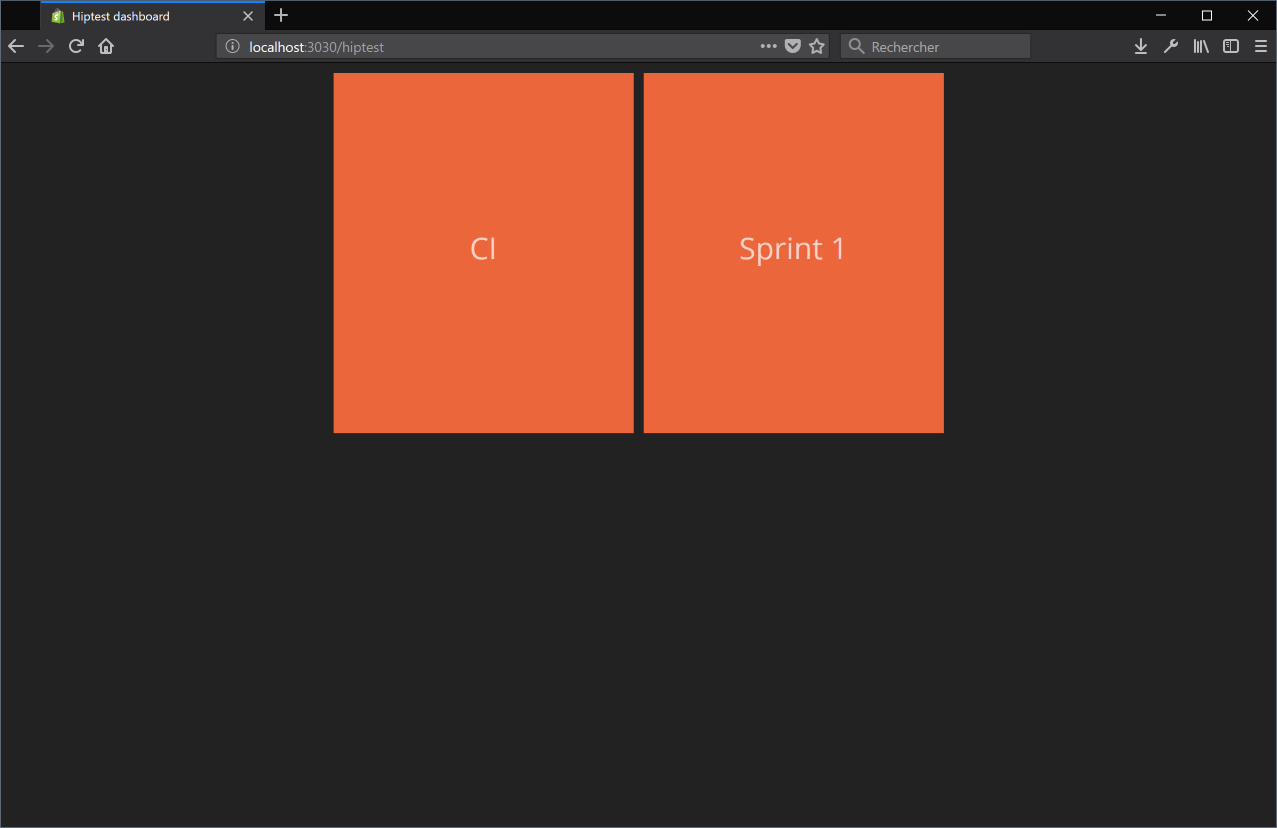
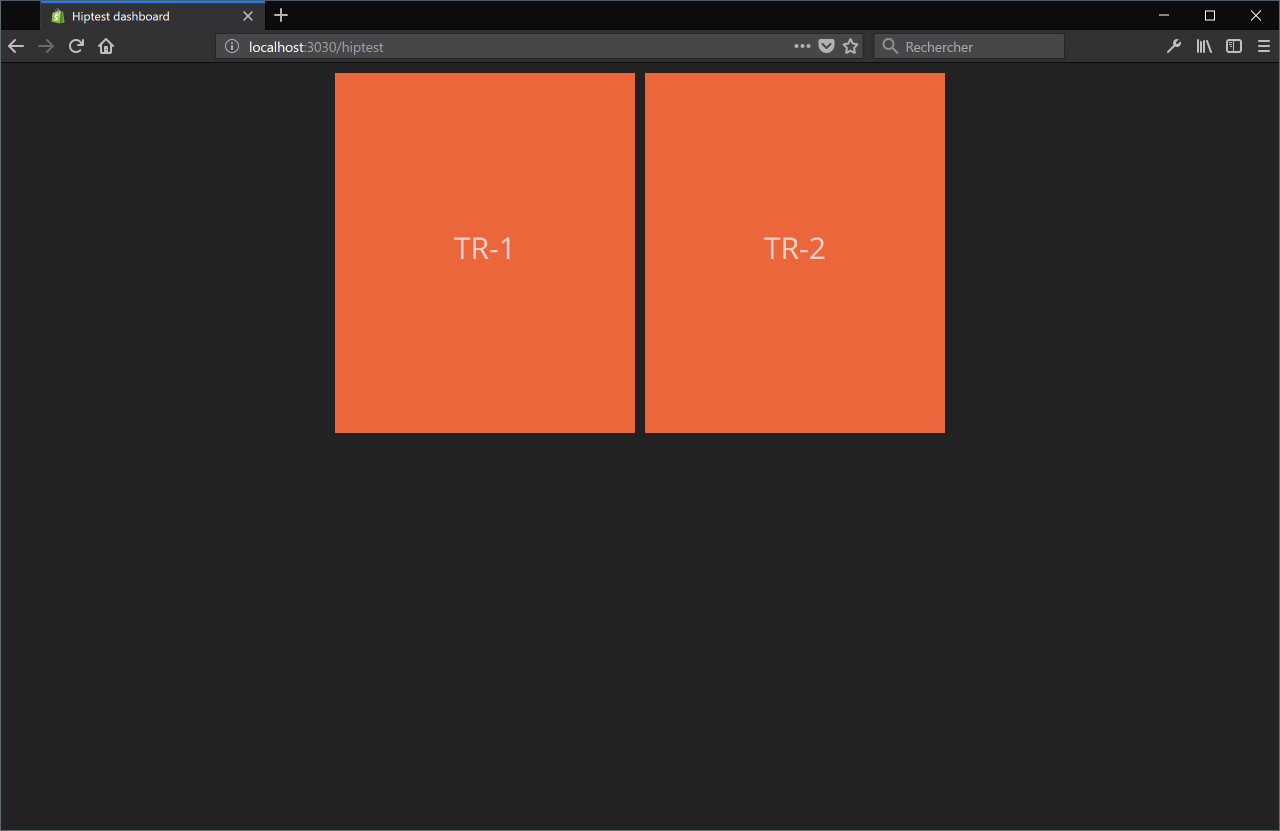
Fetch data from Hiptest then display it

diff --git a/jobs/hiptest.rb b/jobs/hiptest.rb
@@ -1,0 +1,99 @@
+require 'net/http'
+require 'json'
+
+PROJECT_ID = 67155
+ACCESS_TOKEN = 'xcxIyyffZDy-UJkfeXPYgg'
+CLIENT_ID = 'ikxIDJvmOTTPRSMtRV305Q'
+UID = 'areeves@kaonet-fr.net'
+
+PROJECT_URL = "https://hiptest.net/api/projects/#{PROJECT_ID}/test_runs"
+
+# That method will actually fetch the data from Hiptest
+# and return an array of hashes containing test runs names and statuses
+def request_hiptest_status
+
+  uri = URI(PROJECT_URL)
+  result = Net::HTTP.start(uri.host, uri.port, use_ssl: uri.scheme == 'https') do |http|
+    request = Net::HTTP::Get.new uri
+    request['Accept'] = "application/vnd.api+json; version=1"
+    request['access-token'] = ACCESS_TOKEN
+    request['client'] = CLIENT_ID
+    request['uid'] = UID
+    http.request request
+  end
+
+  if result and result.is_a?(Net::HTTPOK)
+    response = JSON.parse(result.body)
+
+    # To return an array containing only names and statusese of test runs
+    return response['data'].collect do |test_run|
+      {
+        'name' => test_run['attributes']['name'], 
+        'statuses' => test_run['attributes']['statuses']
+      }
+    end
+  end
+
+  # If something wrong happened then tiles won't be refreshed.
+  puts 'An error occurs.'
+  puts result
+
+  return nil
+  
+end
+
+# This method is in charge of returning the most
+# valuable status for the given statuses.
+#
+# It's up to you to define here which status you want your
+# dashboard to show depending the statuses of a test run
+def get_status_text(statuses)
+
+  return "Failed" if statuses['failed'] > 0
+  return "Blocked" if statuses['blocked'] > 0
+  return "Skipped" if statuses['skipped'] > 0
+  return "Work in progress" if statuses['wip'] > 0 || statuses['undefined'] > 0
+  return "Retest" if statuses['retest'] > 0
+  return "Passed" if statuses['passed'] > 0
+
+  return "Unknown"
+
+end
+
+# This will simply concatenate the statuses
+# into a single string
+def get_status_details(statuses)
+
+  return statuses.map { |key, value|
+    "#{key}: #{value}" if value > 0
+  }.join(' ')
+
+end
+
+# Every 30 seconds the dashboard will fetch statuses from Hiptest
+# then refresh the tiles accordingly
+SCHEDULER.every '30s' do
+
+  test_runs = request_hiptest_status
+
+  unless test_runs.nil?
+
+    send_event(
+      'tr-1', 
+      { 
+        title: test_runs.first['name'], 
+        text: get_status_text(test_runs.first['statuses']),
+        moreinfo: get_status_details(test_runs.first['statuses'])
+      })
+
+    send_event(
+      'tr-2', 
+      { 
+        title: test_runs.last['name'], 
+        text: get_status_text(test_runs.last['statuses']),
+        moreinfo: get_status_details(test_runs.last['statuses'])
+      })
+
+  end
+
+end

diff --git a/hiptest-api-dashboard-tutorial.md b/hiptest-api-dashboard-tutorial.md
@@ -299,10 +299,10 @@ with the following content:
 <div class="gridster">
   <ul>
     <li data-row="1" data-col="1" data-sizex="1" data-sizey="1">
-      <div data-id="tr-ci" data-view="Text" data-title="CI" data-text=""></div>
+      <div data-id="tr-1" data-view="Text" data-title="TR-1" data-text=""></div>
     </li>
     <li data-row="1" data-col="2" data-sizex="1" data-sizey="1">
-      <div data-id="tr-sprint-1" data-view="Text" data-title="Sprint 1" data-text=""></div>
+      <div data-id="tr-2" data-view="Text" data-title="TR-2" data-text=""></div>
     </li>
   </ul>
 </div>
@@ -315,3 +315,117 @@ sample project.
 If you navigate to http://localhost:3030/hiptest that should look like that:
 
 ![Hiptest blank dashboard](tutorial_files/screenshots/hiptest-blank-dashboard.png)
+
+Now create another file in the `jobs` directory named `hiptest.rb`
+with the following content:
+
+```ruby
+require 'net/http'
+require 'json'
+
+# Set the following constants with your data
+PROJECT_ID = 0
+ACCESS_TOKEN = 'your-access-token'
+CLIENT_ID = 'your-client-id'
+UID = 'your-uid'
+
+PROJECT_URL = "https://hiptest.net/api/projects/#{PROJECT_ID}/test_runs"
+
+# That method will actually fetch the data from Hiptest
+# and return an array of hashes containing test runs names and statuses
+def request_hiptest_status
+
+  uri = URI(PROJECT_URL)
+  result = Net::HTTP.start(uri.host, uri.port, use_ssl: uri.scheme == 'https') do |http|
+    request = Net::HTTP::Get.new uri
+    request['Accept'] = "application/vnd.api+json; version=1"
+    request['access-token'] = ACCESS_TOKEN
+    request['client'] = CLIENT_ID
+    request['uid'] = UID
+    http.request request
+  end
+
+  if result and result.is_a?(Net::HTTPOK)
+    response = JSON.parse(result.body)
+
+    # To return an array containing only names and statusese of test runs
+    return response['data'].collect do |test_run|
+      {
+        'name' => test_run['attributes']['name'], 
+        'statuses' => test_run['attributes']['statuses']
+      }
+    end
+  end
+
+  # If something wrong happened then tiles won't be refreshed.
+  puts 'An error occurs.'
+  puts result
+
+  return nil
+  
+end
+
+# This method is in charge of returning the most
+# valuable status for the given statuses.
+#
+# It's up to you to define here which status you want your
+# dashboard to show depending the statuses of a test run
+def get_status_text(statuses)
+
+  return "Failed" if statuses['failed'] > 0
+  return "Blocked" if statuses['blocked'] > 0
+  return "Skipped" if statuses['skipped'] > 0
+  return "Work in progress" if statuses['wip'] > 0 || statuses['undefined'] > 0
+  return "Retest" if statuses['retest'] > 0
+  return "Passed" if statuses['passed'] > 0
+
+  return "Unknown"
+
+end
+
+# This will simply concatenate the statuses
+# into a single string
+def get_status_details(statuses)
+
+  return statuses.map { |key, value|
+    "#{key}: #{value}" if value > 0
+  }.join(' ')
+
+end
+
+# Every 30 seconds the dashboard will fetch statuses from Hiptest
+# then refresh the tiles accordingly
+SCHEDULER.every '30s' do
+
+  test_runs = request_hiptest_status
+
+  unless test_runs.nil?
+
+    send_event(
+      'tr-1', 
+      { 
+        title: test_runs.first['name'], 
+        text: get_status_text(test_runs.first['statuses']),
+        moreinfo: get_status_details(test_runs.first['statuses'])
+      })
+
+    send_event(
+      'tr-2', 
+      { 
+        title: test_runs.last['name'], 
+        text: get_status_text(test_runs.last['statuses']),
+        moreinfo: get_status_details(test_runs.last['statuses'])
+      })
+
+  end
+
+end
+```
+
+This request for test runs statuses to the API then refresh the tiles accordingly.
+
+If you stop the dashboard, start it again, and wait for the tiles to be refreshed,
+that should look like this:
+
+![Hiptest orange dashboard](tutorial_files/screenshots/hiptest-dashboard-uncolored.png)
+
